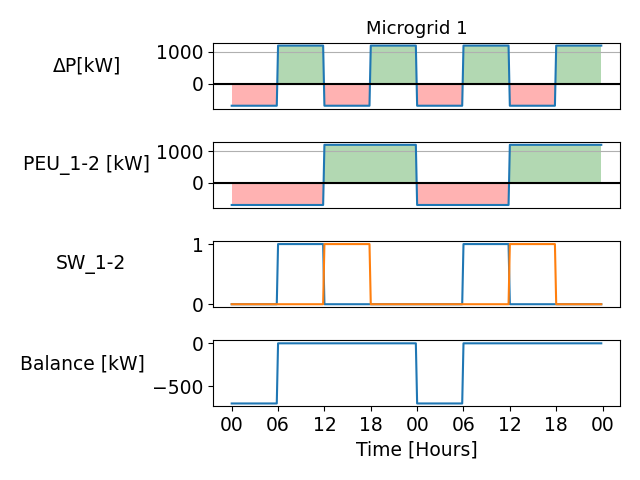
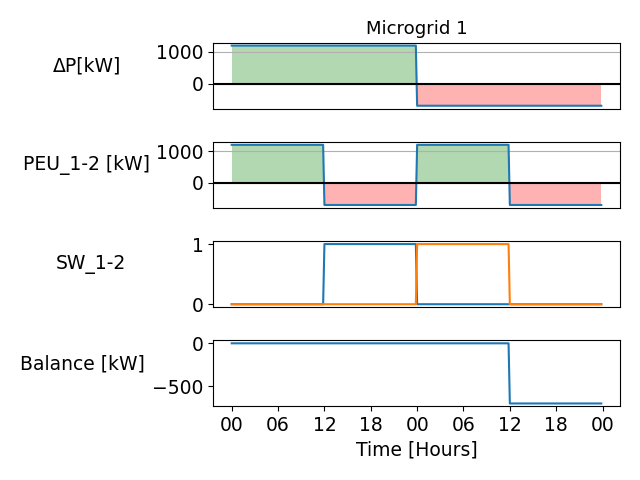
actualizacion del readme

diff --git a/main.py b/main.py
@@ -93,32 +93,32 @@ for index, instant in environment.iterrows():
         peu.update(index, instant["time"])
 
 #The energy balance is established to know the contribution of each neighboring microgrid to the local one.
-#for reference in agents:
-#    print("************")
-#    temporal = pd.DataFrame()
-#    for peu in agents:
-#        if not reference.name in peu.name:
-#            j = 0            
-#            for neighbor in peu.neighbors:
-#                if reference.name.split(" ")[1] == neighbor["name"].split("_")[1].split("-")[1]:
-#                    print(reference.name + " <--> " + peu.name)
-#                    reference.data['sw_' + neighbor["name"]] = neighbor["data"]["master"]
-#                    col_name = "master-" + str(peu.name.split(" ")[1])
-#                    temporal.loc[:, col_name] = neighbor["data"]["producer"].values.tolist()
+for reference in agents:
+    print("************")
+    temporal = pd.DataFrame()
+    for peu in agents:
+        if not reference.name in peu.name:
+            j = 0            
+            for neighbor in peu.neighbors:
+                if reference.name.split(" ")[1] == neighbor["name"].split("_")[1].split("-")[1]:
+                    print(reference.name + " <--> " + peu.name)
+                    reference.data['sw_' + neighbor["name"]] = neighbor["data"]["master"]
+                    col_name = "master-" + str(peu.name.split(" ")[1])
+                    temporal.loc[:, col_name] = neighbor["data"]["producer"].values.tolist()
 
-#    reference.data["balance"] = temporal.sum(axis = 1)
-#    reference.data.loc[reference.data['balance'] >= 1, 'balance'] = 1
-#    reference.data[neighbor["name"]] = abs(reference.data["dP"]) * reference.data["balance"]
-#    reference.data["balance"] = reference.data["dP"]  + reference.data[neighbor["name"]]
-#    reference.data.loc[reference.data['balance'] > 0, 'balance'] = 0
+    reference.data["balance"] = temporal.sum(axis = 1)
+    reference.data.loc[reference.data['balance'] >= 1, 'balance'] = 1
+    reference.data[neighbor["name"]] = abs(reference.data["dP"]) * reference.data["balance"]
+    reference.data["balance"] = reference.data["dP"]  + reference.data[neighbor["name"]]
+    reference.data.loc[reference.data['balance'] > 0, 'balance'] = 0
 
 # Calculation of performance metrics
-#for index, instant in environment.iterrows():
-#    for peu in agents:
-#        peu.performanceIndex(index, instant["time"])
+for index, instant in environment.iterrows():
+    for peu in agents:
+        peu.performanceIndex(index, instant["time"])
 
 # The graphs are generated
-#for peu in agents:
-#    print(peu.name)
-#    print("ise: " + str(peu.data.iloc[-1]["ise"])+ " " + "iae: " + str(peu.data.iloc[-1]["iae"])+ " " + "loss: " + str(peu.data.iloc[-1]["loss"]/environment.size) + " " + "resiliency: " + str(environment.size/peu.data.iloc[-1]["loss"]))        
-#    peu.graphics_power_differentials(os.getcwd() + pathname + "/results/" + peu.name + ".png")
+for peu in agents:
+    print(peu.name)
+    print("ise: " + str(peu.data.iloc[-1]["ise"])+ " " + "iae: " + str(peu.data.iloc[-1]["iae"])+ " " + "loss: " + str(peu.data.iloc[-1]["loss"]/environment.size) + " " + "resiliency: " + str(environment.size/peu.data.iloc[-1]["loss"]))        
+    peu.graphics_power_differentials(os.getcwd() + pathname + "/results/" + peu.name + ".png")

diff --git a/sourcecode/classes/agent/peu.py b/sourcecode/classes/agent/peu.py
@@ -55,12 +55,12 @@ class powerExchangeUnitAgent():
         print(stringQuery)
         result = self.DBClient.query(stringQuery)
         print(result)
-        #points = result.get_points()
+        points = result.get_points()
 
-        #for item in points:
-        #    item["seconds"] = parser.isoparse(item["time"]).timestamp()
-        #    item["value"] = item[field]
-        #    return item
+        for item in points:
+            item["seconds"] = parser.isoparse(item["time"]).timestamp()
+            item["value"] = item[field]
+            return item
 
     def update(self, i, time):
 
@@ -161,6 +161,7 @@ class powerExchangeUnitAgent():
                 self.neighbors[index]["data"].iloc[i, self.neighbors[index]["data"].columns.get_loc(
                     'not_master')] = 1 - self.neighbors[index]["master"]
 
+        '''
         if (self.modelType == 'mg6'):
 
             # self.producer.setStimulus(self.PT - self.PL)
@@ -201,7 +202,7 @@ class powerExchangeUnitAgent():
 
                 self.neighbors[index]["data"].iloc[i, self.neighbors[index]["data"].columns.get_loc(
                     'consumer')] = self.neighbors[index]["consumer"].sw
-        '''
+        
 
     def performanceIndex(self, i, time):
         if i == 0:
